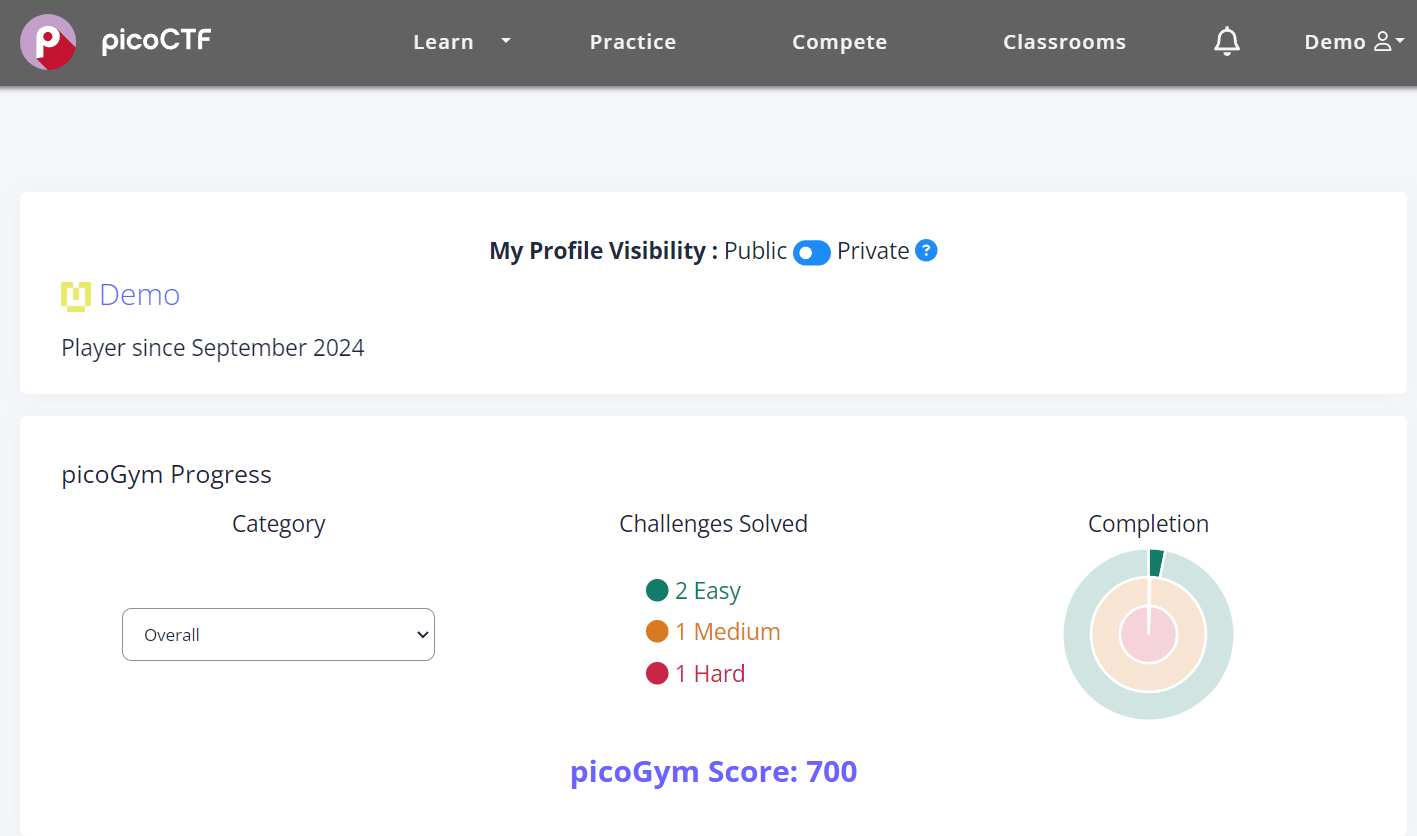
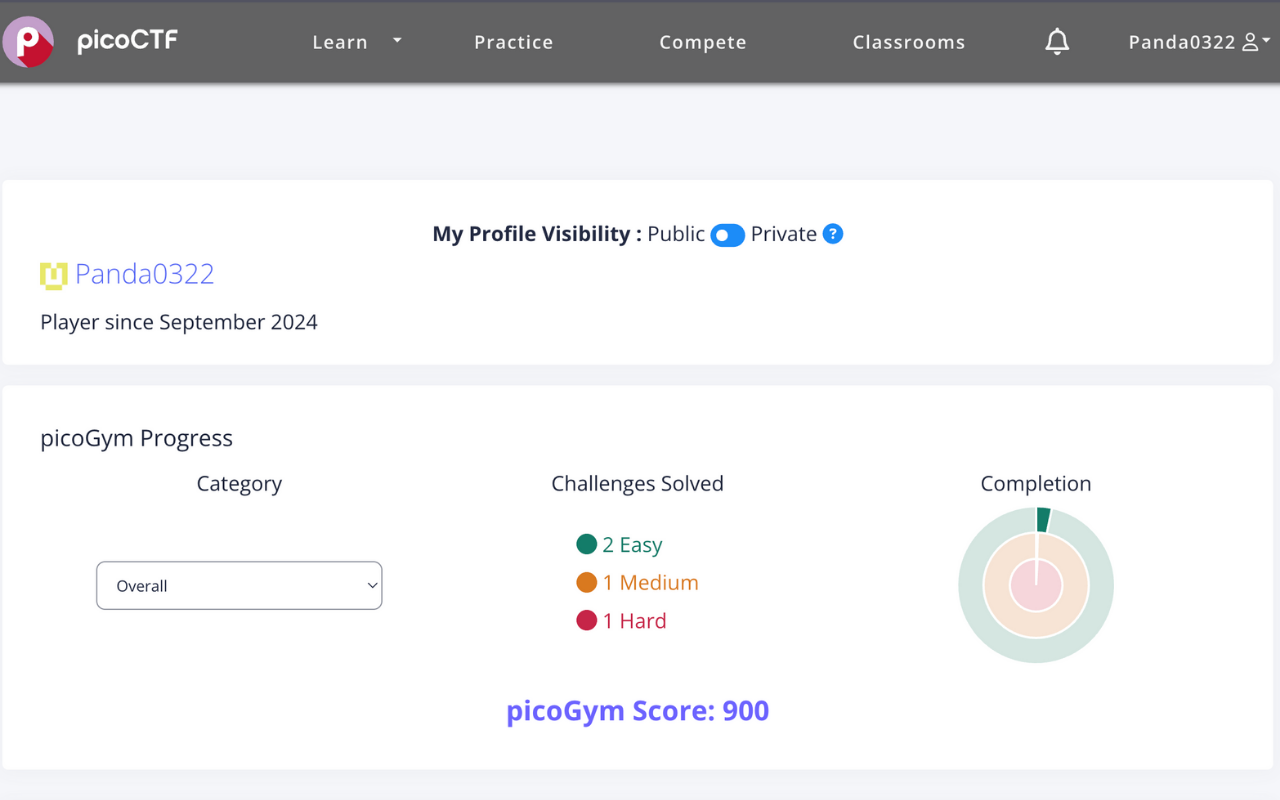
Change score of hard challenge to 500

diff --git a/practice_page.js b/practice_page.js
@@ -6,7 +6,7 @@
             const scoreMapping = {
                 'Easy': 100,
                 'Medium': 200,
-                'Hard': 300
+                'Hard': 500
             };
 
             let totalScore = 0;

diff --git a/user_page.js b/user_page.js
@@ -7,7 +7,7 @@
             const scoreMapping = {
                 'Easy': 100,
                 'Medium': 200,
-                'Hard': 300
+                'Hard': 500
             };
 
             let totalScore = 0;

diff --git a/README.md b/README.md
@@ -11,7 +11,7 @@ This Chrome extension can automatically generate and display picoCTF score on th
 
 - Easy: 100 points
 - Medium: 200 points
-- Hard: 300 points
+- Hard: 500 points
 
 ## License
 
